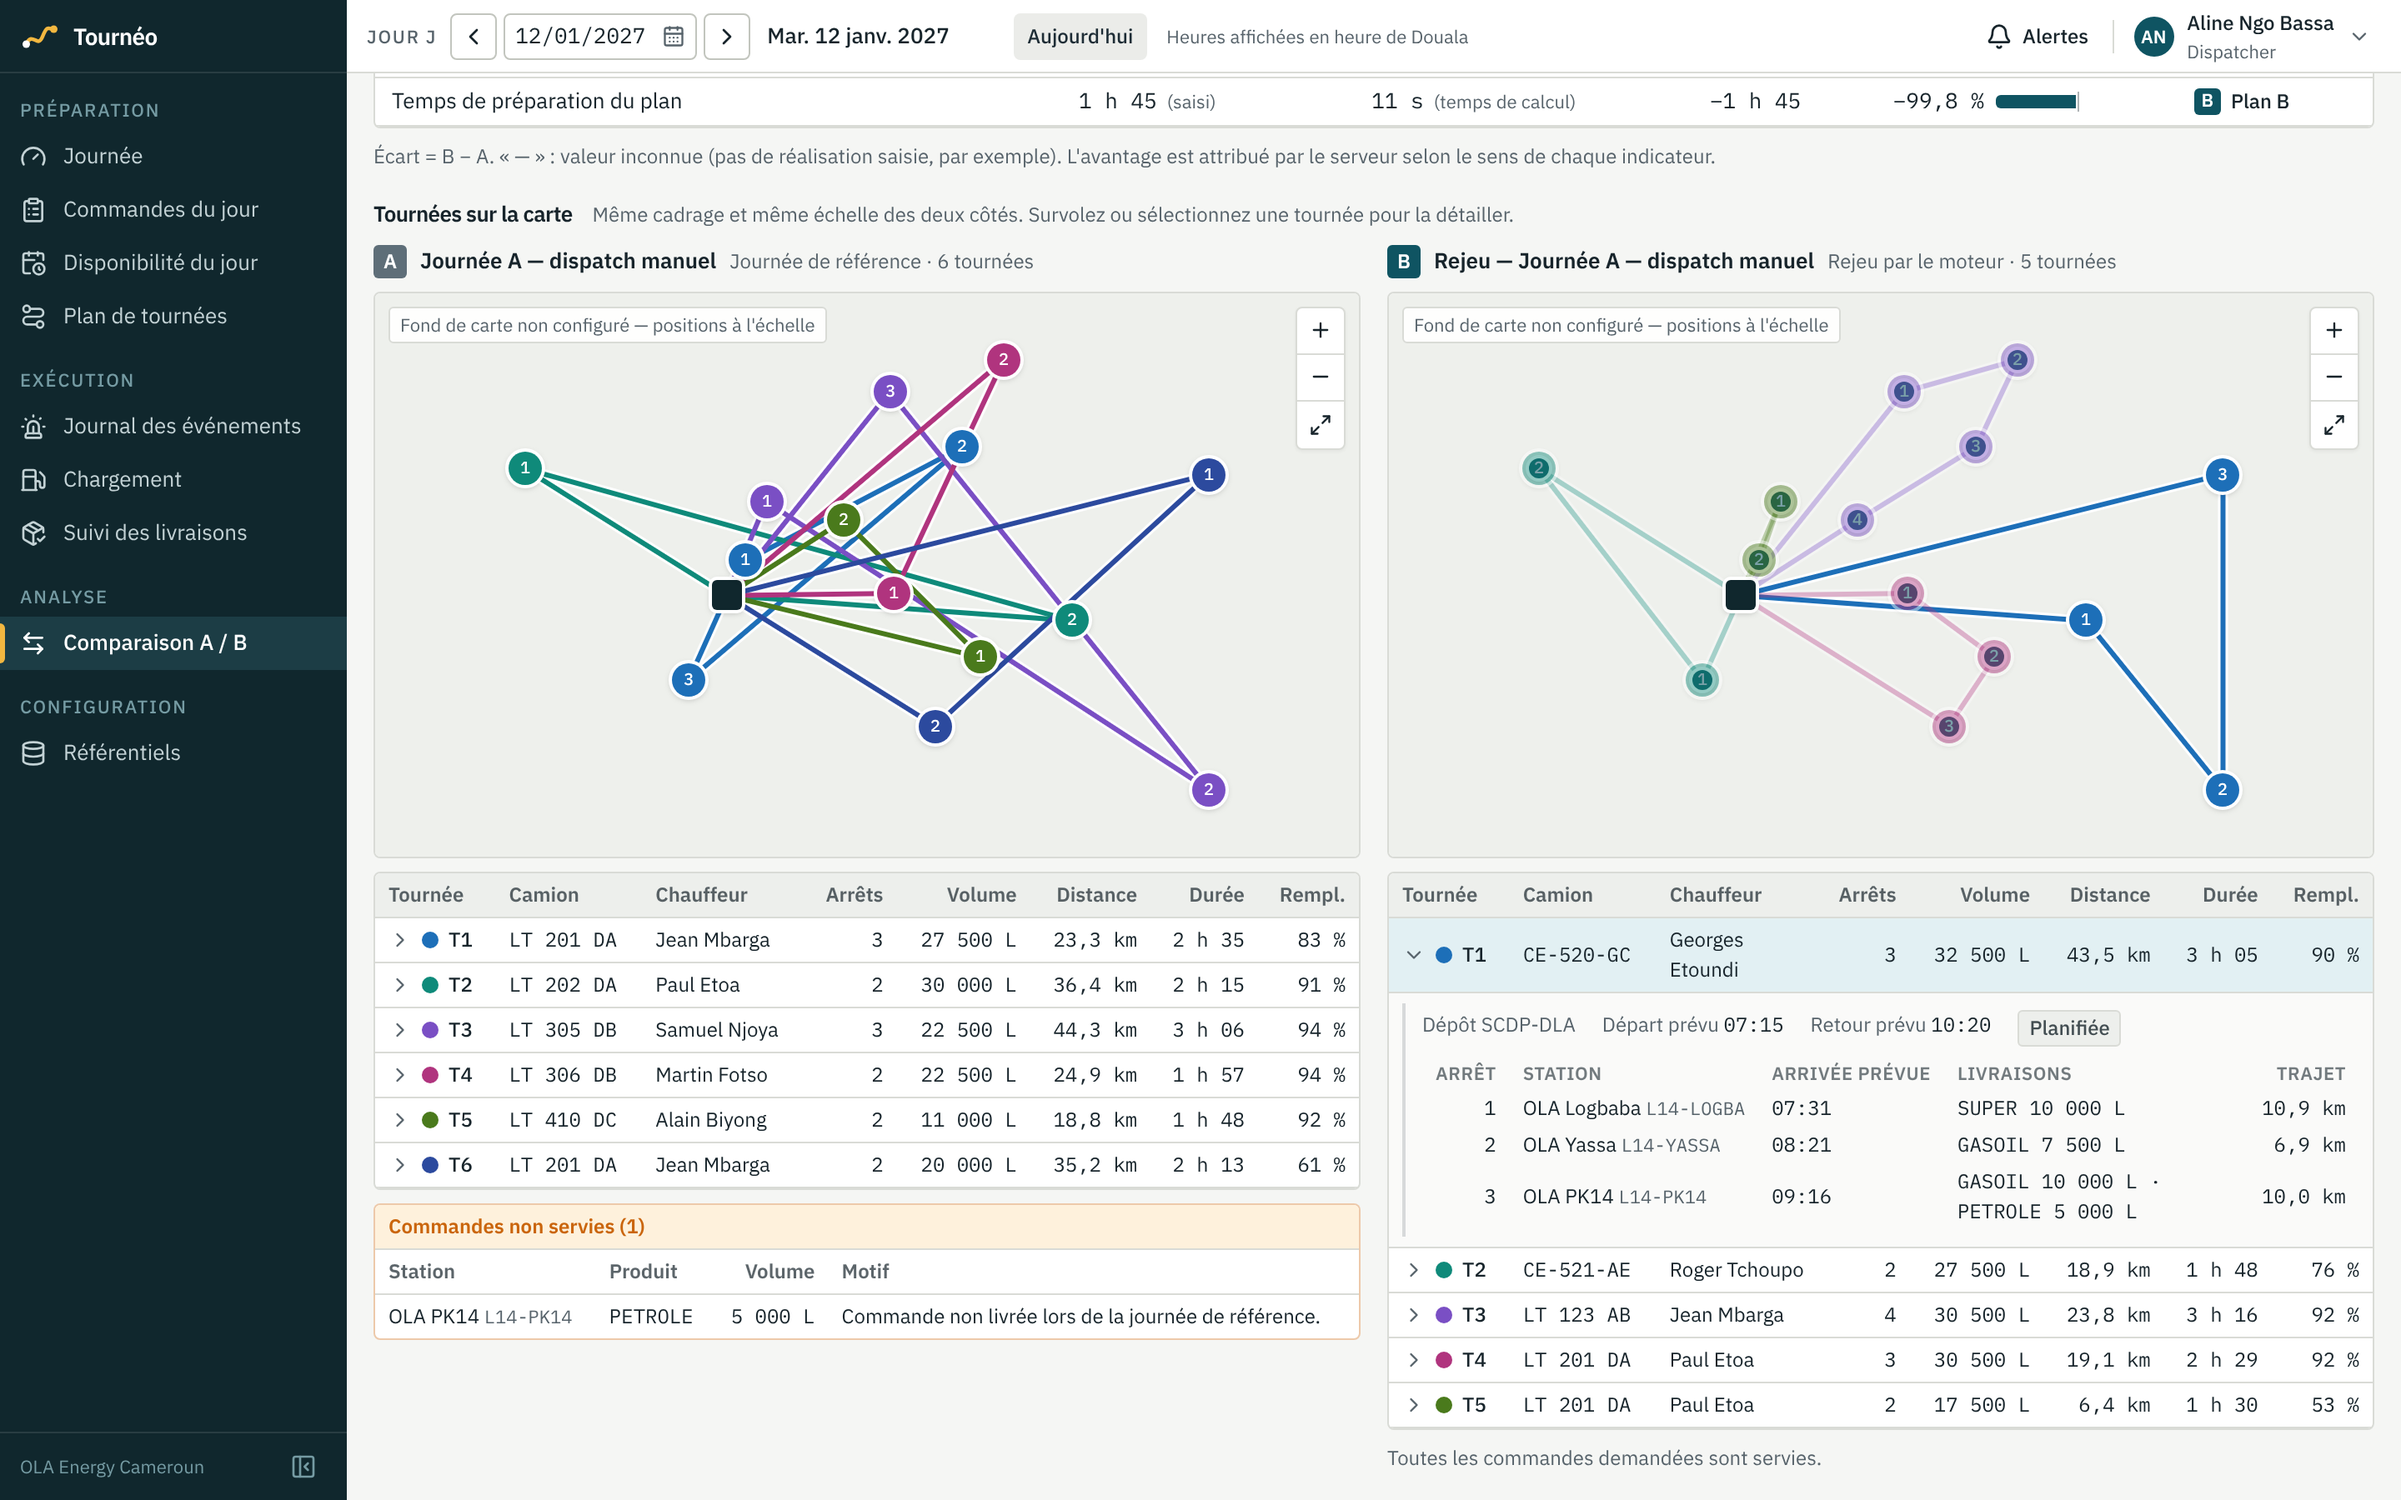
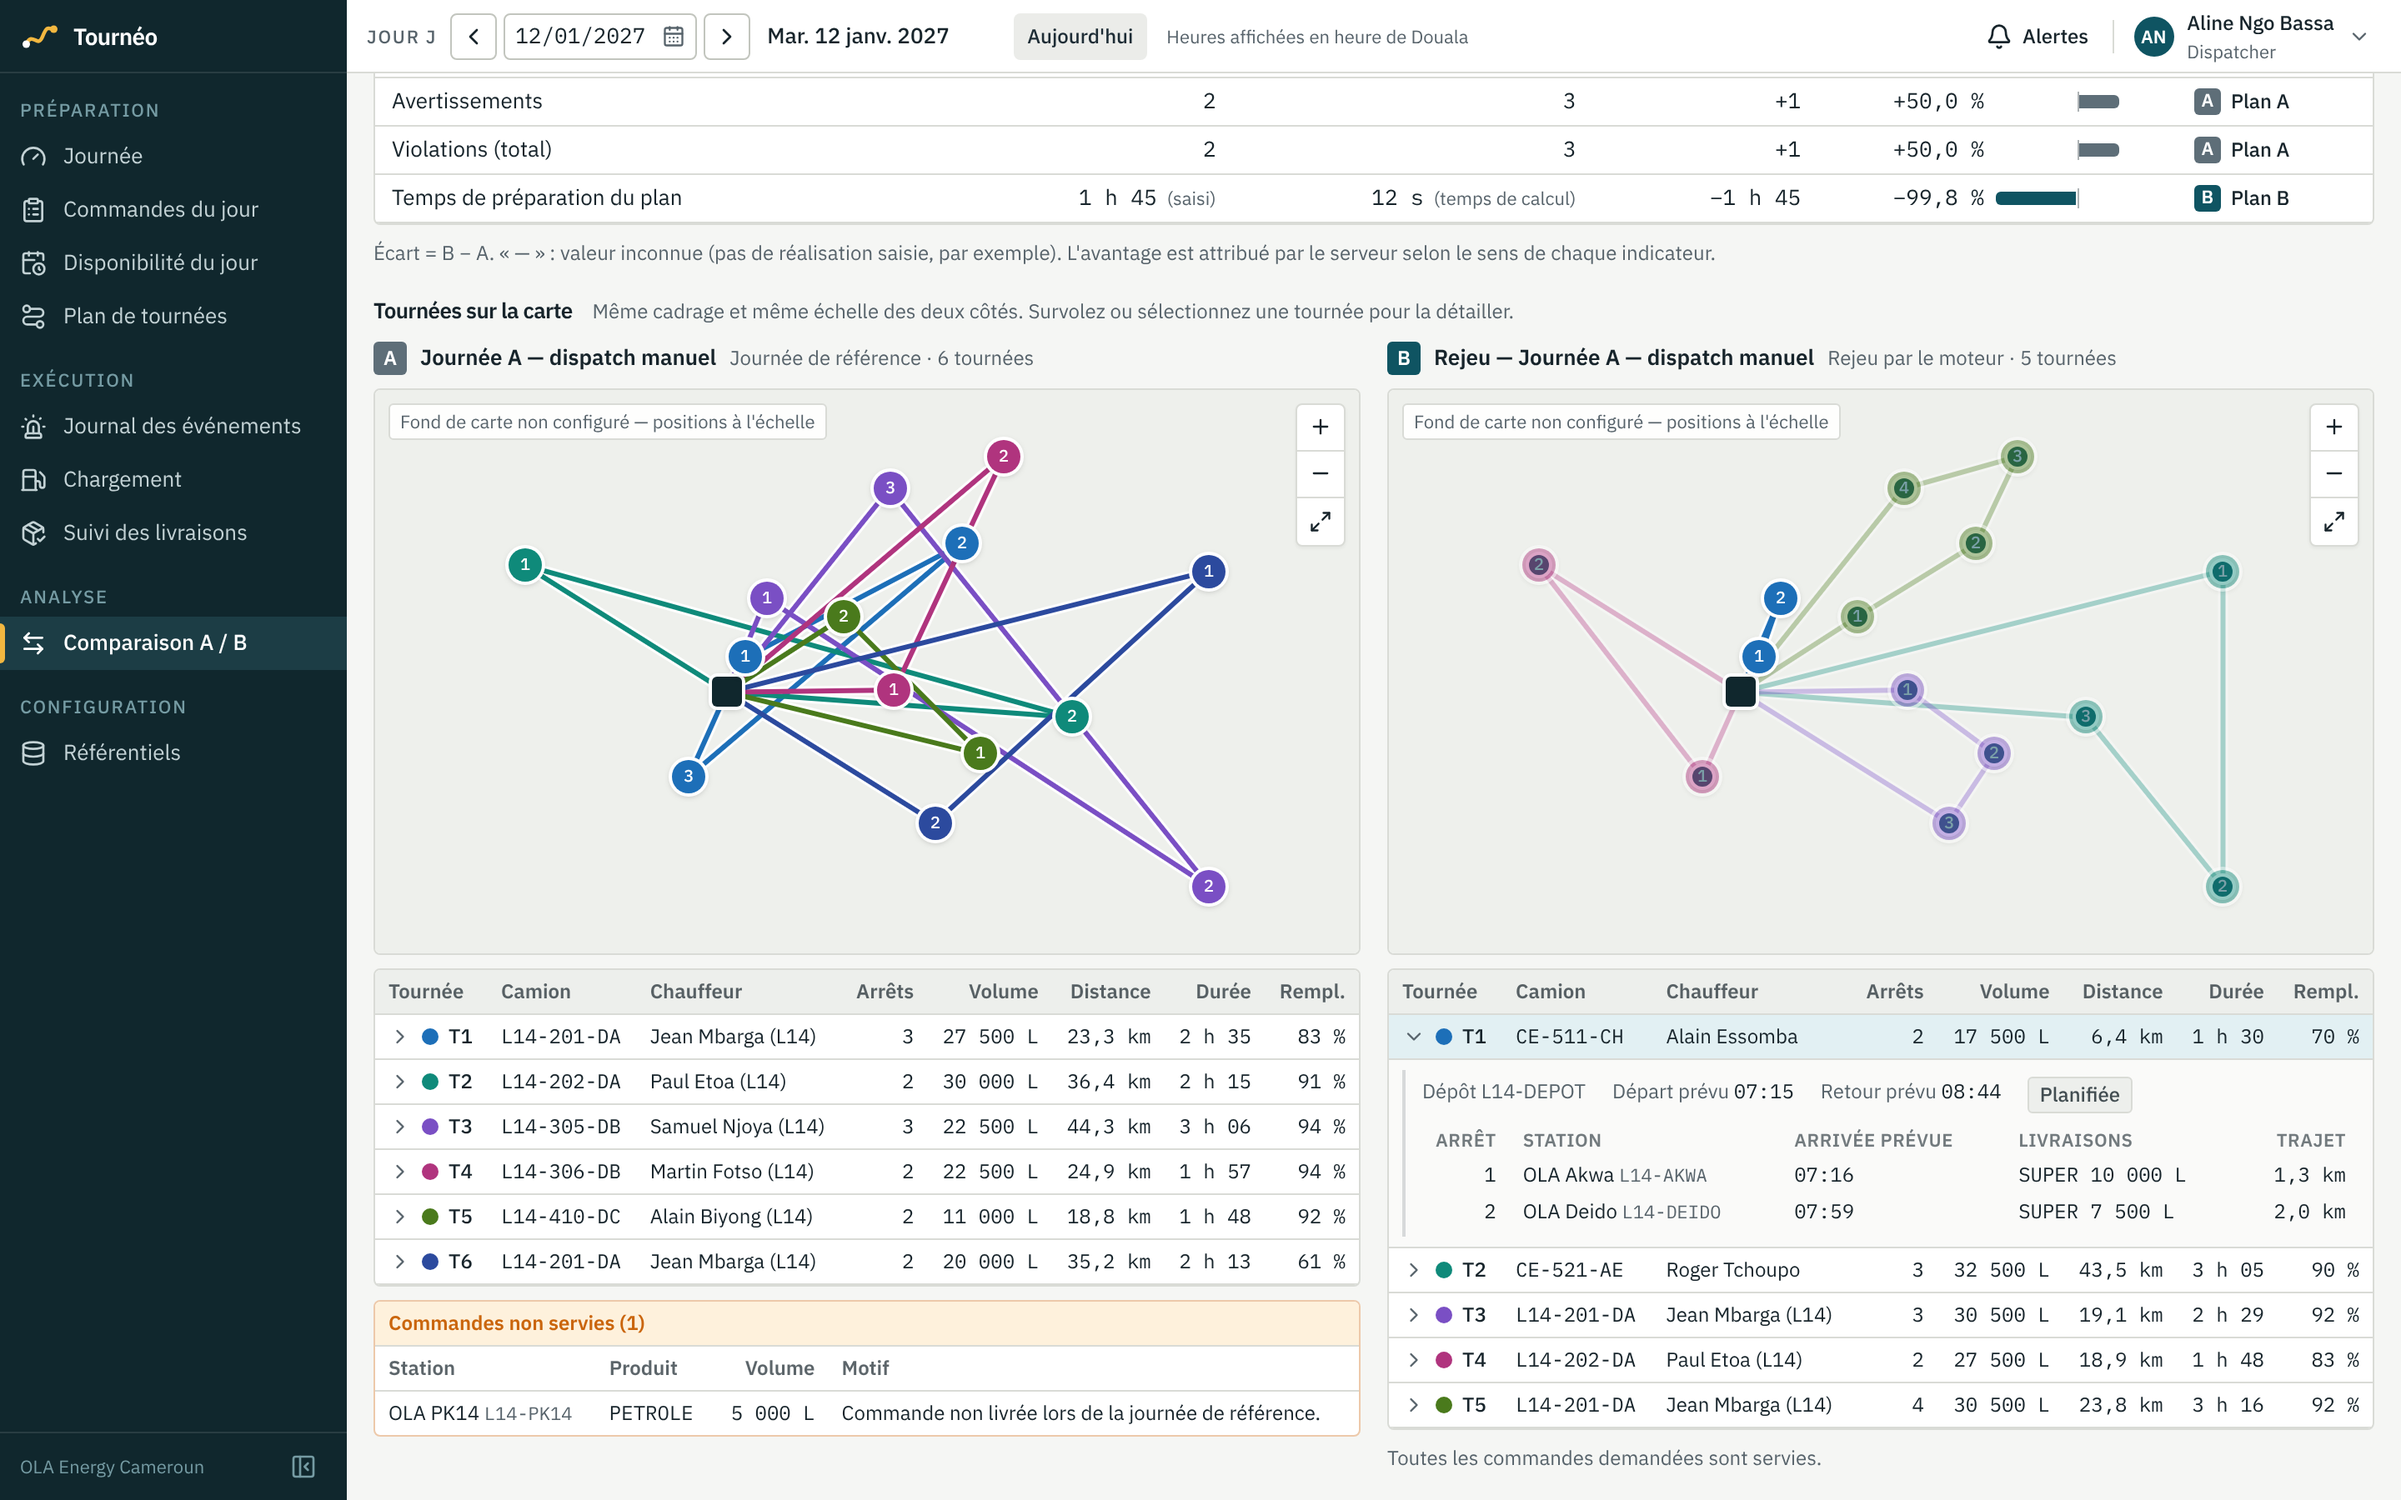
Comparaison A / B (L14) : jeu d'essai e2e isolé des autres lots et parcours rejouables
- dépôt, immatriculations, chauffeurs et transporteurs créés par le script préfixés L14
- chauffeurs de la journée de référence désignés par leur numéro de permis
- panne : camion de remplacement pris dans les options du serveur, une seule panne par journée
- sélecteurs de plan ciblés sans ambiguïté avec le nouveau champ date
- captures régénérées

Claude-Session: https://claude.ai/code/session_01WbKnrd79orvfD25ahJvUPd

diff --git a/frontend/e2e/l14-seed.ts b/frontend/e2e/l14-seed.ts
@@ -142,7 +142,8 @@ export function buildXlsx(sheets: Sheet[]): Buffer {
 
 /* ------------------------------------------------------------------ jeu fictif : Douala */
 
-const DEPOT = "SCDP-DLA";
+/** Tout ce que crée ce script porte le préfixe L14 : aucun autre lot ne peut créer un homonyme. */
+const DEPOT = "L14-DEPOT";
 
 /** code, nom, lat, lon, gabarit max, produits des cuves */
 const STATIONS: [string, string, number, number, string, string[]][] = [
@@ -164,21 +165,21 @@ const STATIONS: [string, string, number, number, string, string[]][] = [
 
 /** immatriculation, transporteur, type, gabarit, capacités des compartiments */
 const TRUCKS: [string, string, string, string, number[]][] = [
-  ["LT 201 DA", "Transcam", "tiers", "grand", [11000, 11000, 11000]],
-  ["LT 202 DA", "Transcam", "tiers", "grand", [11000, 11000, 11000]],
-  ["LT 305 DB", "OLA Flotte", "propre", "moyen", [8000, 8000, 8000]],
-  ["LT 306 DB", "OLA Flotte", "propre", "moyen", [8000, 8000, 8000]],
-  ["LT 410 DC", "OLA Flotte", "propre", "petit", [6000, 6000]],
+  ["L14-201-DA", "L14 Transcam", "tiers", "grand", [11000, 11000, 11000]],
+  ["L14-202-DA", "L14 Transcam", "tiers", "grand", [11000, 11000, 11000]],
+  ["L14-305-DB", "L14 OLA Flotte", "propre", "moyen", [8000, 8000, 8000]],
+  ["L14-306-DB", "L14 OLA Flotte", "propre", "moyen", [8000, 8000, 8000]],
+  ["L14-410-DC", "L14 OLA Flotte", "propre", "petit", [6000, 6000]],
 ];
 
 /** permis, nom, transporteur */
 const DRIVERS: [string, string, string][] = [
-  ["CM-L14-0001", "Jean Mbarga", "Transcam"],
-  ["CM-L14-0002", "Paul Etoa", "Transcam"],
-  ["CM-L14-0003", "Samuel Njoya", "OLA Flotte"],
-  ["CM-L14-0004", "Martin Fotso", "OLA Flotte"],
-  ["CM-L14-0005", "Alain Biyong", "OLA Flotte"],
-  ["CM-L14-0006", "Hervé Kamga", "OLA Flotte"],
+  ["CM-L14-0001", "Jean Mbarga (L14)", "L14 Transcam"],
+  ["CM-L14-0002", "Paul Etoa (L14)", "L14 Transcam"],
+  ["CM-L14-0003", "Samuel Njoya (L14)", "L14 OLA Flotte"],
+  ["CM-L14-0004", "Martin Fotso (L14)", "L14 OLA Flotte"],
+  ["CM-L14-0005", "Alain Biyong (L14)", "L14 OLA Flotte"],
+  ["CM-L14-0006", "Hervé Kamga (L14)", "L14 OLA Flotte"],
 ];
 
 export function referentialWorkbooks(): Record<"depots" | "stations" | "trucks" | "drivers", Buffer> {
@@ -268,7 +269,7 @@ export function referentialWorkbooks(): Record<"depots" | "stations" | "trucks" 
           ],
           [
             DEPOT,
-            "SCDP Douala",
+            "L14 Dépôt de Douala",
             "SCDP",
             4.0435,
             9.7043,
@@ -382,6 +383,7 @@ const ORDERS: [string, string, number, string, string | null, string | null, str
 
 interface ManualTrip {
   truck: string;
+  /** Numéro de permis : sans ambiguïté, même si un autre lot crée un chauffeur du même nom. */
   driver: string;
   km: number;
   depart: string;
@@ -393,8 +395,8 @@ interface ManualTrip {
 /** Tournées telles que le dispatcher les a faites : par habitude de chauffeur, sans regroupement par zone. */
 const MANUAL_TRIPS: ManualTrip[] = [
   {
-    truck: "LT 201 DA",
-    driver: "Jean Mbarga",
+    truck: "L14-201-DA",
+    driver: "CM-L14-0001",
     km: 41,
     depart: "06:30",
     back: "10:55",
@@ -405,8 +407,8 @@ const MANUAL_TRIPS: ManualTrip[] = [
     ],
   },
   {
-    truck: "LT 202 DA",
-    driver: "Paul Etoa",
+    truck: "L14-202-DA",
+    driver: "CM-L14-0002",
     km: 46,
     depart: "06:40",
     back: "10:20",
@@ -416,8 +418,8 @@ const MANUAL_TRIPS: ManualTrip[] = [
     ],
   },
   {
-    truck: "LT 305 DB",
-    driver: "Samuel Njoya",
+    truck: "L14-305-DB",
+    driver: "CM-L14-0003",
     km: 52,
     depart: "06:45",
     back: "11:30",
@@ -428,8 +430,8 @@ const MANUAL_TRIPS: ManualTrip[] = [
     ],
   },
   {
-    truck: "LT 306 DB",
-    driver: "Martin Fotso",
+    truck: "L14-306-DB",
+    driver: "CM-L14-0004",
     km: 29,
     depart: "07:00",
     back: "10:05",
@@ -439,8 +441,8 @@ const MANUAL_TRIPS: ManualTrip[] = [
     ],
   },
   {
-    truck: "LT 410 DC",
-    driver: "Alain Biyong",
+    truck: "L14-410-DC",
+    driver: "CM-L14-0005",
     km: 22,
     depart: "07:10",
     back: "09:50",
@@ -450,8 +452,8 @@ const MANUAL_TRIPS: ManualTrip[] = [
     ],
   },
   {
-    truck: "LT 201 DA",
-    driver: "Jean Mbarga",
+    truck: "L14-201-DA",
+    driver: "CM-L14-0001",
     km: 44,
     depart: "11:40",
     back: "15:10",
@@ -502,7 +504,7 @@ export function referenceDayWorkbook(day: string, options: { broken?: boolean } 
   );
   if (options.broken) {
     tripRows[1][5] = "L14-INCONNUE";
-    tripRows[3][1] = "LT 999 ZZ";
+    tripRows[3][1] = "L14-999-ZZ";
   }
   return buildXlsx([
     { name: "Journée", rows: [["Date", day]] },

diff --git a/frontend/e2e/l14-comparaison.e2e.ts b/frontend/e2e/l14-comparaison.e2e.ts
@@ -65,7 +65,7 @@ test("dispatcher : import de la journée A → rejeu → verdict → PDF", async
   await expect(report.getByRole("row").filter({ hasText: "Station inconnue : L14-INCONNUE." })).toContainText(
     "Tournées",
   );
-  await expect(report.getByRole("row").filter({ hasText: "Camion inconnu : LT 999 ZZ." })).toContainText(
+  await expect(report.getByRole("row").filter({ hasText: "Camion inconnu : L14-999-ZZ." })).toContainText(
     "Camion",
   );
   await expect(dialog.getByRole("button", { name: "Importer la journée" })).toHaveCount(0);
@@ -92,9 +92,9 @@ test("dispatcher : import de la journée A → rejeu → verdict → PDF", async
 
   // 3. La journée importée est le plan A ; il manque B : rejeu par le moteur, progression affichée.
   await expect(page.getByText("Il manque le plan B")).toBeVisible();
-  await expect(page.getByRole("combobox", { name: "Plan A" }).locator("option:checked")).toContainText(
-    "Journée de référence · v1 · Brouillon — Journée A — parcours e2e",
-  );
+  await expect(
+    page.getByRole("combobox", { name: "Plan A", exact: true }).locator("option:checked"),
+  ).toContainText("Journée de référence · v1 · Brouillon — Journée A — parcours e2e");
   await page.getByRole("button", { name: "Rejouer avec le moteur" }).first().click();
   await expect(page.getByTestId("replay-progress")).toBeVisible();
 
@@ -212,7 +212,7 @@ test("direction : après une panne, le suivi et la présélection portent sur la
 
   // Présélection du plan B : la version publiée la plus récente (l'ancienne est archivée, toujours listée).
   await page.getByRole("tab", { name: "Comparaison", exact: true }).click();
-  const planB = page.getByRole("combobox", { name: "Plan B" });
+  const planB = page.getByRole("combobox", { name: "Plan B", exact: true });
   await expect(planB).toHaveValue(planId);
   await expect(planB.locator("option:checked")).toContainText(`Plan calculé · v${version} · Publié`);
   await expect(planB.locator("option", { hasText: `v${version - 1} · Archivé` })).toHaveCount(1);
